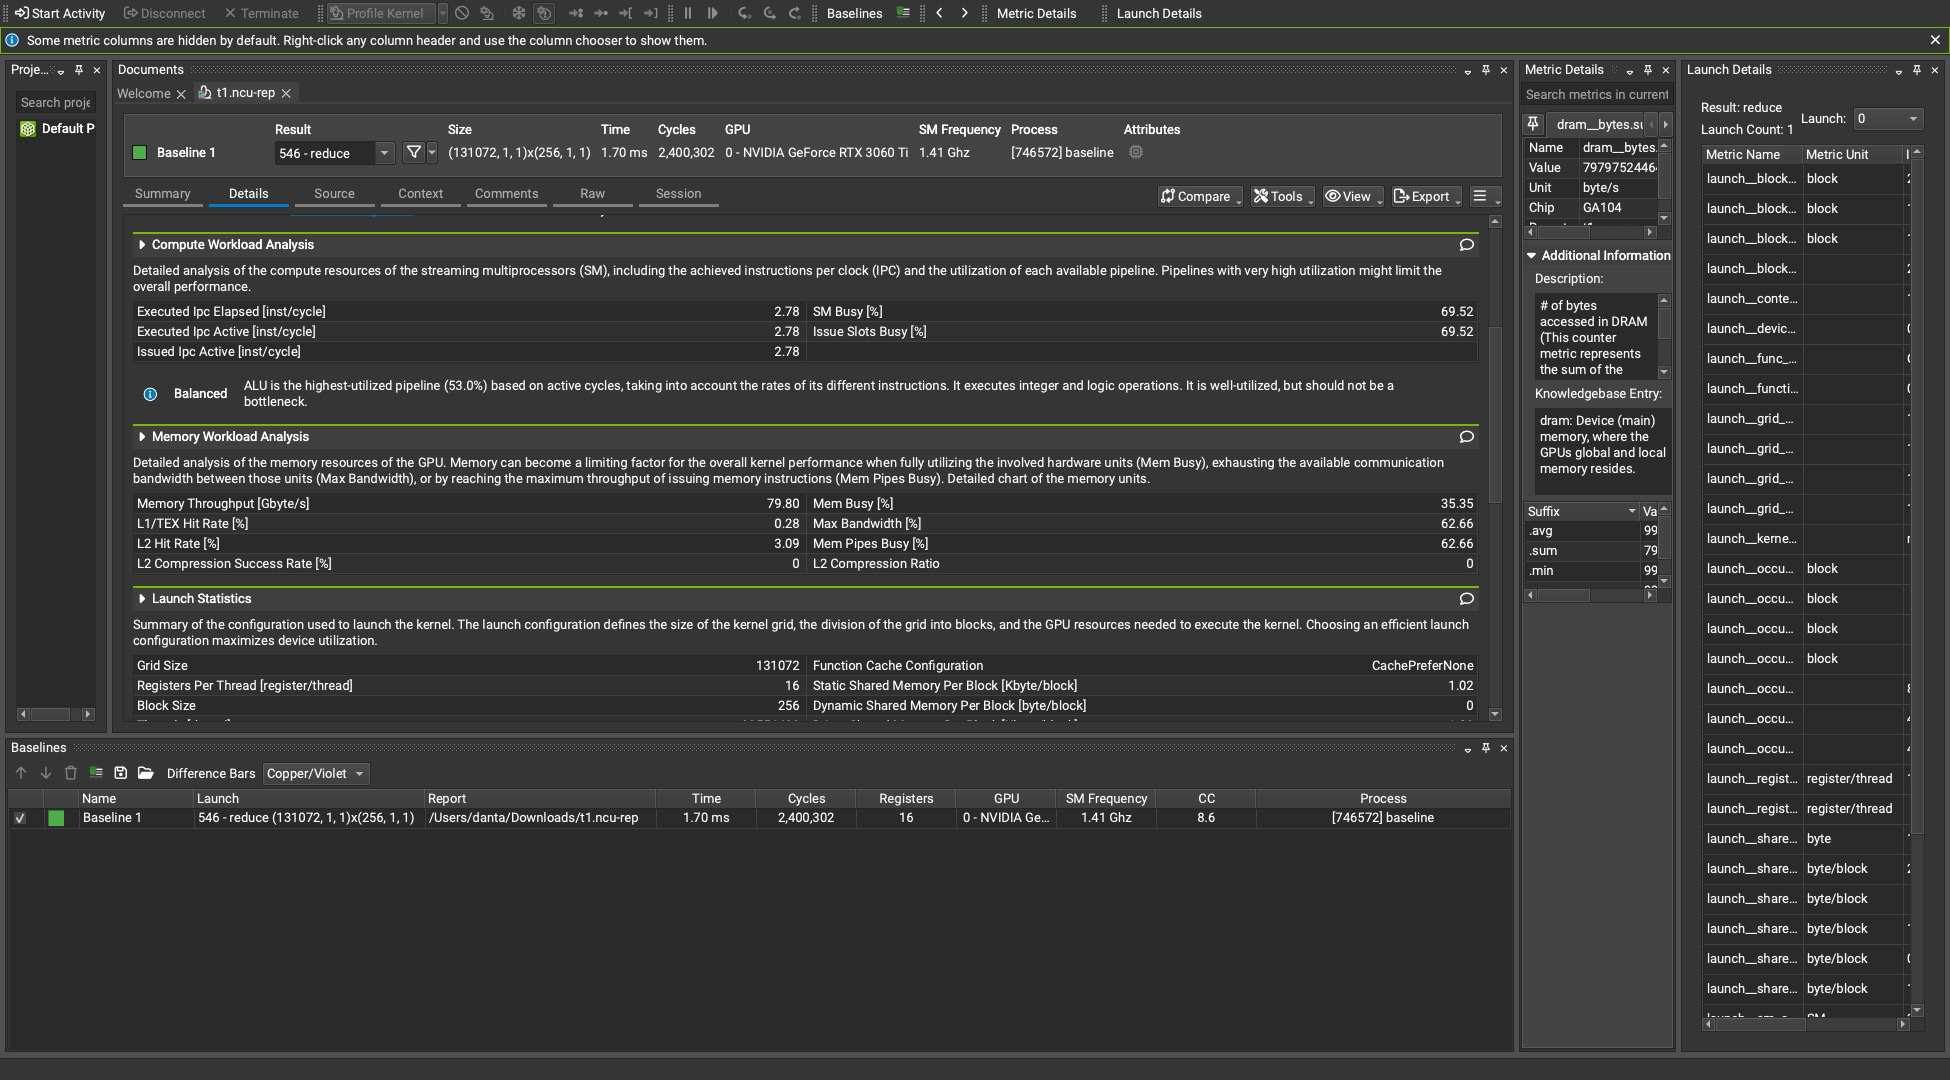
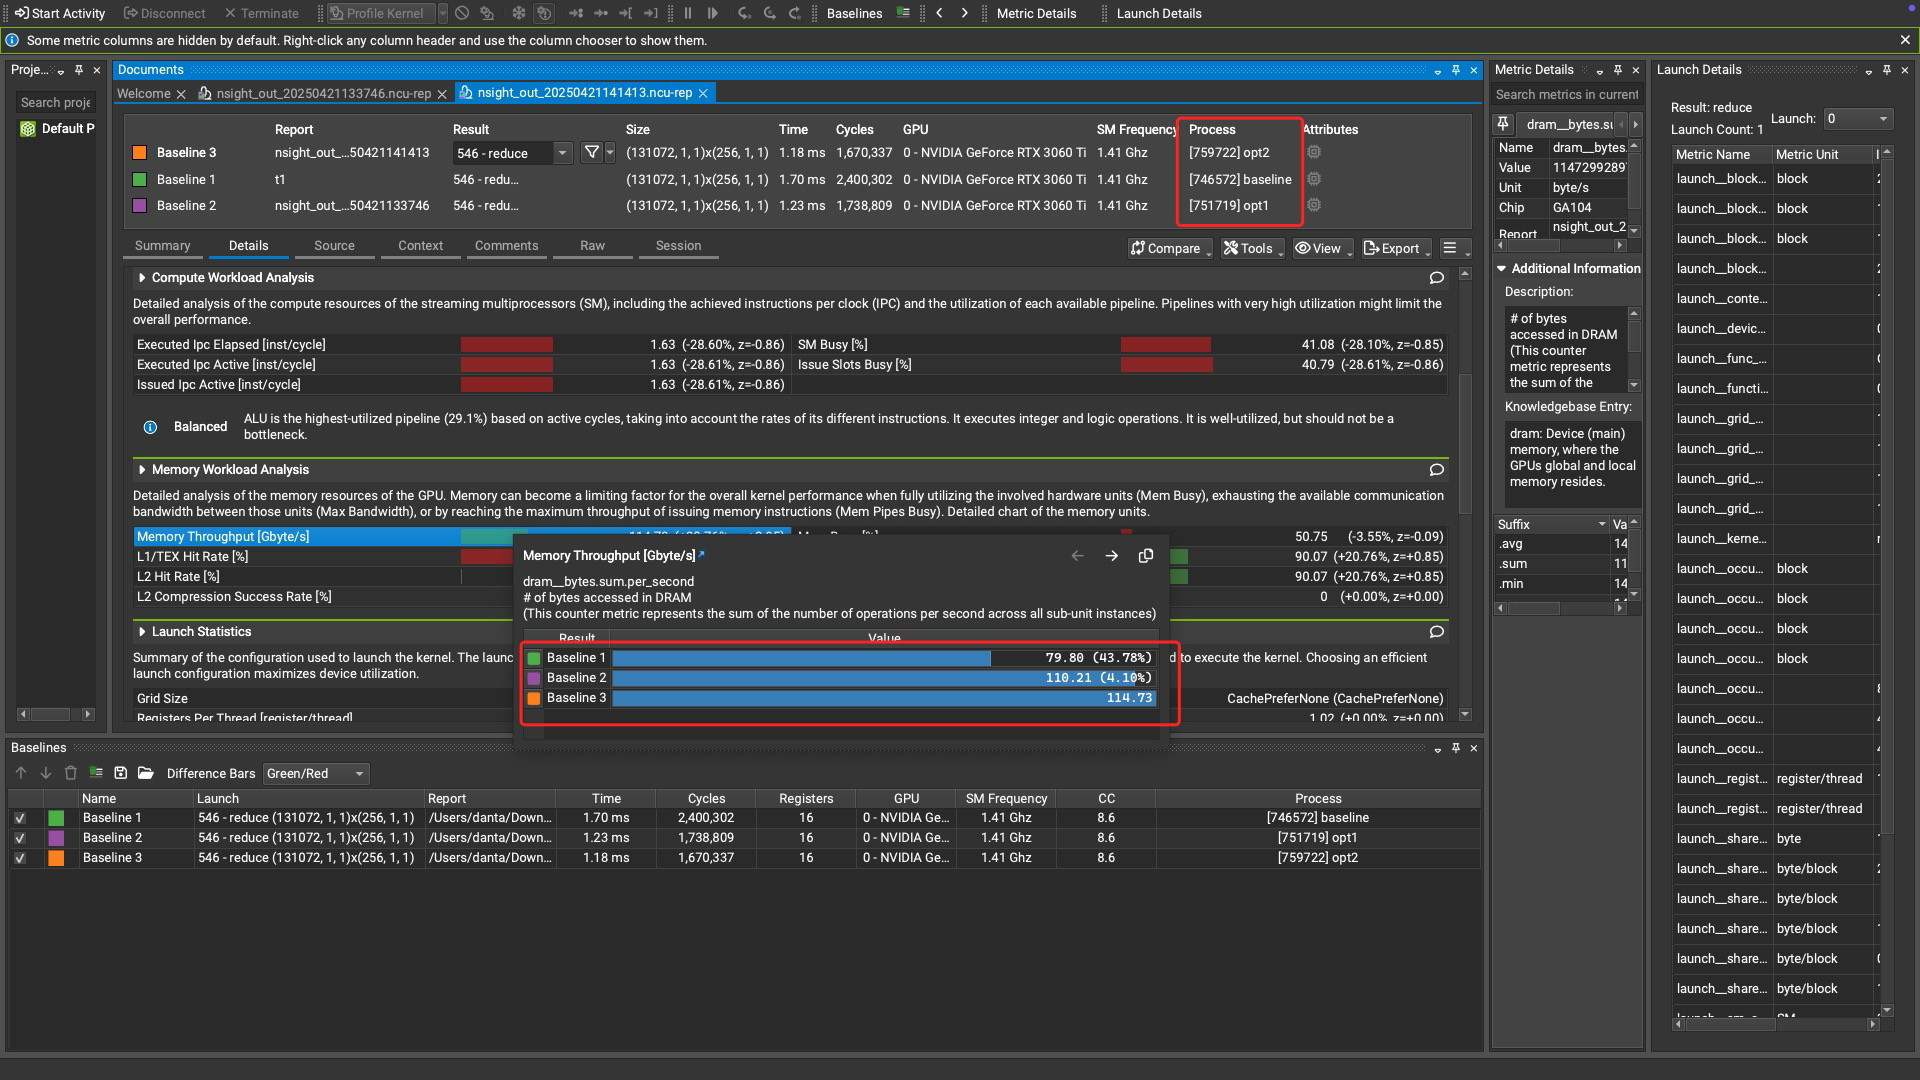
update

diff --git a/cuda/reduce/readme.md b/cuda/reduce/readme.md
@@ -15,6 +15,8 @@
 sudo /usr/local/cuda/nsight-compute-2024.3.2/ncu --set detailed -o /home/cs/project/recognizing_handwritten_digits/build/nsight_out_$(date +%Y%m%d%H%M%S) /home/cs/project/recognizing_handwritten_digits/build/1/baseline
 
 sudo /usr/local/cuda/nsight-compute-2024.3.2/ncu --set detailed -o /home/cs/project/recognizing_handwritten_digits/build/nsight_out_$(date +%Y%m%d%H%M%S) /home/cs/project/recognizing_handwritten_digits/build/1/opt1
+
+sudo /usr/local/cuda/nsight-compute-2024.3.2/ncu --set detailed -o /home/cs/project/recognizing_handwritten_digits/build/nsight_out_$(date +%Y%m%d%H%M%S) /home/cs/project/recognizing_handwritten_digits/build/1/opt2
 ```
 
 ## perf
